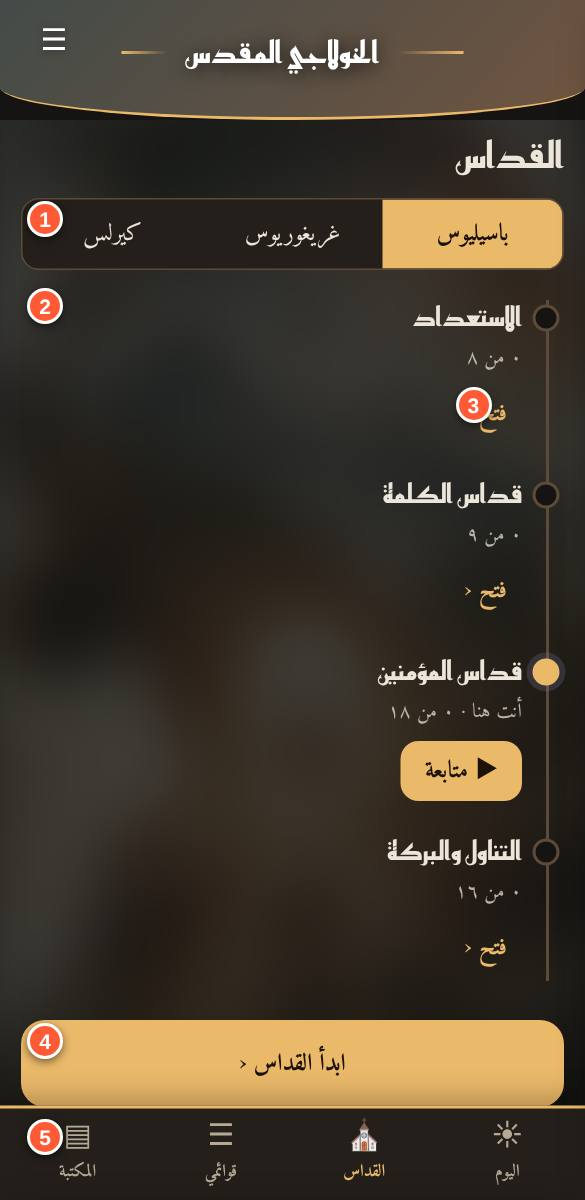
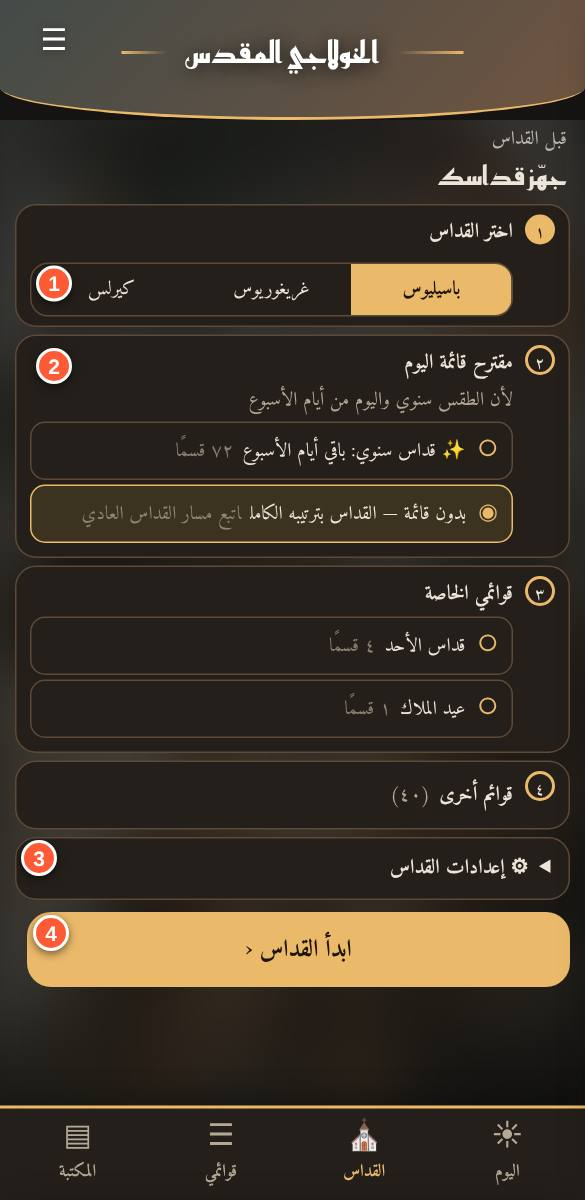
1.6.5: زر القداس يفتح جهّز قداسك مباشرة وحذف الصفحة السابقة
Claude-Session: https://claude.ai/code/session_01TxsQH8W41ZBNhnMhe9bVaK

diff --git a/tools/make-guide.js b/tools/make-guide.js
@@ -16,10 +16,9 @@ const SPECS=[
 {id:'today',title:'ورقة اليوم',hash:'#/',h:900,setup:async p=>{await open(p,'.sgrab')},summary:'الورقة التي تظهر بالسحب. فيها كل ما تحتاجه اليوم دون تفاصيل كثيرة.',
  marks:[['.tsheet .td','تاريخ اليوم','التاريخ والذكصولوجيات المقترحة لهذا التاريخ.'],['.tdc','تابع من حيث وقفت','آخر قسم كنت فيه وشريط التقدم. زر «متابعة» يفتحه مباشرة.'],['.tdp','باكر · العشية · نصف الليل','يختار نفسه تلقائيا حسب الساعة. الأقسام تحته تناسب الوقت.'],['.tsheet .li .dxp','＋','يضيف القسم إلى قائمتك الحالية.'],['.tdstart','ابدأ القداس','يفتح صفحة «قبل القداس» لتجهيز القداس.'],['.bnav','الشريط السفلي','التنقل بين الصفحات الأربع: اليوم، القداس، قوائمي، المكتبة.']],
  nav:'اسحب الورقة لتحت أو اضغط على المقبض في أعلاها لتعود للصورة.'},
-{id:'lit',title:'القداس',hash:'#/lit',summary:'الصفحة التي تتابع منها القداس مرحلة مرحلة.',
- marks:[['.seg','اختيار القداس','باسيليوس أو غريغوريوس أو كيرلس. اختيارك يتحفظ.'],['.tl','المراحل الأربع','الاستعداد، قداس الكلمة، قداس المؤمنين، القسمة والتناول. الدائرة الممتلئة = مرحلة أنهيتها.'],['.tl .stgo, .tl .tdgo','فتح / متابعة','يفتح أول جزء لم تقرأه في المرحلة.'],['.tdstart','ابدأ القداس','يفتح «قبل القداس».'],['.tdalt','كل أقسام القداس','قائمة كل أجزاء القداس المختار بترتيب الكتاب.']]},
-{id:'pre',title:'قبل القداس',hash:'#/pre',summary:'أربع خطوات قصيرة تجهّز بها قبل أن تبدأ.',
- marks:[['.chk@0','١. القداس','اختر الذي ستصليه.'],['.chk@1','٢. قائمتك','القائمة الحالية وعدد أقسامها. «فتح قوائمي» لتعديلها.'],['.chk@2','٣. اقتراحات اليوم','ذكصولوجيات تناسب تاريخ اليوم. ＋ لإضافتها.'],['.chk@3','٤. حجم الخط','اضبطه الآن ليبقى ثابتا طوال القداس.'],['[data-dmgo="lit"]','ابدأ القداس','يبدأ وضع الشماس من آخر مكان أو أول القداس.'],['[data-dmgo="list"]','ابدأ قائمتي','يبدأ القراءة من أول قسم في قائمتك ويتنقّل بترتيبها.']]},
+{id:'lit',title:'القداس (جهّز قداسك)',hash:'#/lit',summary:'زر «القداس» بالأسفل يفتح هذه الصفحة: اختر القداس والقائمة ثم ابدأ.',
+ marks:[['.prc .seg','١. اختر القداس','باسيليوس أو غريغوريوس أو كيرلس. اختيارك يتحفظ.'],['.prlst','٢. مقترح قائمة اليوم','أنسب قائمة لطقس اليوم؛ أو «بدون قائمة» لتتبع مسار القداس العادي.'],['.prset','⚙ إعدادات القداس','اظهار/إخفاء العربي والمعرَّب والقبطي والهمسات والتأملات، وحجم الخط.'],['.tdstart','ابدأ القداس','يبدأ القداس بما اخترته.']],
+ nav:'من أسفل الشاشة: «القداس».'},
 {id:'reader',title:'القراءة',hash:'#/s/bas-hulul',summary:'شاشة قراءة أي قسم: نص بثلاثة أعمدة (قبطي، معرَّب، عربي) مع إرشادات الطقس.',
  marks:[['#bsub','اسم القسم ▾','اضغط عليه لتنتقل بسرعة لأي قسم آخر.'],['#opts label:nth-of-type(1)','ع · م · ق','تظهر أو تخفي الأعمدة: العربي، المعرَّب، القبطي.'],['#btnSearch','بحث','يبحث في كل نصوص البرنامج.'],['.sts','رحلة المسيح','المحطة التي تقابل هذا الجزء من القداس (تفصيلها في صفحتها).'],['.unh [data-more]','⋯ خيارات القراءة','يفتح قائمة فيها 🕯 وضع الكنيسة (نص كبير داكن) و🕊 همسات الصلاة (مخفية / مطوية / مفتوحة / في الدرج).'],['.unh [data-uidx]','فهرس','قائمة قطع هذا القسم للانتقال لأي قطعة.'],['.unh .syb','⇄ القداس الآخر','زرّ لكل قداس آخر: ضغطة واحدة تفتح مقابل هذا القسم هناك من أوله، وتتحرك أنت داخله للمكان الذي تريده. المطوّلة تفتح كل المقابلات، والباهت يعني لا مقابل.'],['.unb','شريط التقدم','نسبة ما قرأته في هذا القسم.'],['.unp .rub, .rub','إرشاد (أحمر)','حركات الكاهن والشعب وما يقال.'],['#dsheet','الدرج السفلي','أيقونات فقط: 💭 تأمل، 📝 شروحات، 🕯 إرشادات، 📎 هوامش، 🧭 المحطة، 📖 دليل. يُفتح بالسحب لأعلى فقط (الضغط عليه وهو مغلق لا يفتحه)، ولأسفل ليُغلق؛ وبعد فتحه اضغط أيقونة لتبديل التبويب.'],['#dxfab','＋ / ✓','يضيف القسم لأي قائمة من قوائمك، ويفتح قائمة خياراتها.'],['#qfs','أ+ / أ−','تكبير وتصغير الخط فورا.']],
  nav:'للانتقال بين الأجزاء: «التالي» في آخر الصفحة، أو اسحب الشاشة، أو افتح الفهرس. هذه الأزرار تظهر هنا فقط.'},

diff --git a/guide-pages.js b/guide-pages.js
@@ -65,66 +65,32 @@ window.KG_PAGES=[
  },
  {
   "id": "lit",
-  "title": "القداس",
+  "title": "القداس (جهّز قداسك)",
   "img": "guide/lit.jpg",
-  "summary": "الصفحة التي تتابع منها القداس مرحلة مرحلة.",
+  "summary": "زر «القداس» بالأسفل يفتح هذه الصفحة: اختر القداس والقائمة ثم ابدأ.",
   "items": [
    [
     1,
-    "اختيار القداس",
+    "١. اختر القداس",
     "باسيليوس أو غريغوريوس أو كيرلس. اختيارك يتحفظ."
    ],
    [
     2,
-    "المراحل الأربع",
-    "الاستعداد، قداس الكلمة، قداس المؤمنين، القسمة والتناول. الدائرة الممتلئة = مرحلة أنهيتها."
+    "٢. مقترح قائمة اليوم",
+    "أنسب قائمة لطقس اليوم؛ أو «بدون قائمة» لتتبع مسار القداس العادي."
    ],
    [
     3,
-    "فتح / متابعة",
-    "يفتح أول جزء لم تقرأه في المرحلة."
+    "⚙ إعدادات القداس",
+    "اظهار/إخفاء العربي والمعرَّب والقبطي والهمسات والتأملات، وحجم الخط."
    ],
    [
     4,
     "ابدأ القداس",
-    "يفتح «قبل القداس»."
-   ],
-   [
-    5,
-    "كل أقسام القداس",
-    "قائمة كل أجزاء القداس المختار بترتيب الكتاب."
+    "يبدأ القداس بما اخترته."
    ]
   ],
-  "nav": ""
- },
- {
-  "id": "pre",
-  "title": "قبل القداس",
-  "img": "guide/pre.jpg",
-  "summary": "أربع خطوات قصيرة تجهّز بها قبل أن تبدأ.",
-  "items": [
-   [
-    1,
-    "١. القداس",
-    "اختر الذي ستصليه."
-   ],
-   [
-    2,
-    "٢. قائمتك",
-    "القائمة الحالية وعدد أقسامها. «فتح قوائمي» لتعديلها."
-   ],
-   [
-    3,
-    "٣. اقتراحات اليوم",
-    "ذكصولوجيات تناسب تاريخ اليوم. ＋ لإضافتها."
-   ],
-   [
-    4,
-    "٤. حجم الخط",
-    "اضبطه الآن ليبقى ثابتا طوال القداس."
-   ]
-  ],
-  "nav": ""
+  "nav": "من أسفل الشاشة: «القداس»."
  },
  {
   "id": "reader",
@@ -310,23 +276,7 @@ window.KG_PAGES=[
   "title": "التقويم القبطي",
   "img": "guide/calendar.jpg",
   "summary": "الأعياد والأصوام بالتاريخين، وربط كل يوم بطقسه وألحانه وقوائمه.",
-  "items": [
-   [
-    1,
-    "التبويبات",
-    "القادم (أقرب المناسبات) · الشهر · مواسم السنة."
-   ],
-   [
-    2,
-    "أقرب مناسبة",
-    "اسمها وعدّاد الأيام حتى تصل."
-   ],
-   [
-    3,
-    "المناسبات",
-    "اضغط لفتح الشهر، و🔔 للتنبيه قبلها بيومين."
-   ]
-  ],
+  "items": [],
   "nav": ""
  },
  {

diff --git a/guide-news.js b/guide-news.js
@@ -1,7 +1,8 @@
 /* سجل الميزات الجديدة (الأحدث أولا). كل ميزة جديدة تُضاف هنا كمدخل جديد في أعلى القائمة،
    ثم تُحدَّث مواصفة الصفحة المتأثرة في tools/make-guide.js وتُعاد اللقطات (node tools/make-guide.js). */
-window.KG_VERSION="1.6.4";
+window.KG_VERSION="1.6.5";
 window.KG_NEWS=[
+{v:"1.6.5", t:"القداس يفتح على «جهّز قداسك»", x:"زر «القداس» بالأسفل يفتح مباشرة صفحة اختيار القداس والقائمة، وحُذفت الصفحة التي كانت قبلها."},
 {v:"1.6.4", t:"تصميم أكثر إحكاما", x:"شاشة «ابدأ القداس» والقوائم والتقويم بمسافات أصغر وصفوف مضغوطة تُظهر المحتوى أكثر في الشاشة."},
 {v:"1.6.3",t:"شاشة «ابدأ القداس» الجديدة",x:"عند «ابدأ القداس» تظهر الآن أربع خطوات: ١) اختيار القداس (باسيلي/غريغوري/كيرلسي)، ٢) مقترح قائمة اليوم حسب الطقس، ٣) قوائمك الخاصة، ٤) قوائم أخرى (الجاهزة والمناسبات). اختر قائمة أو «بدون قائمة» ثم ابدأ. وفيها «إعدادات القداس» لتغيير الأعمدة والإرشادات والتأملات والهمسات وطريقة القراءة وحجم الخط."},
 {v:"1.6.2",t:"صفحة التقويم القبطي",x:"صفحة جديدة «📅 التقويم القبطي» على نمط «رفيق روحي»: تبويب «القادم» (أقرب الأعياد والأصوام بعدّاد الأيام وتنبيه 🔔 قبلها بيومين)، و«الشهر» (شبكة بالتاريخين مع نقاط للأعياد والأصوام)، و«مواسم السنة» (أي سنة 1900–2099 مع جدول الأعياد). وعند الضغط على أي يوم يظهر طقسه وألحانه وأنسب قائمة له وذكصولوجياته ومدائح توزيعه. تُفتح من المكتبة والرئيسية وكارت طقس اليوم."},

diff --git a/sw.js b/sw.js
@@ -1,4 +1,4 @@
-const CACHE_NAME='khulagi-v1.6.4';
+const CACHE_NAME='khulagi-v1.6.5';
 const FILES=['./','index.html','icon-192.png','icon-512.png','guide-news.js','calendar.js','content-tawzi.txt','guide-pages.js','guide/doxologies.jpg','guide/occasions.jpg','guide/library.jpg','guide/lists.jpg','guide/lit.jpg','guide/notes.jpg','guide/post.jpg','guide/pre.jpg','guide/reader.jpg','guide/settings.jpg','guide/sidx.jpg','guide/splash.jpg','guide/story.jpg','guide/today.jpg','reemkufi-arabic-700-normal.woff2','dawn.jpg','data.js','study.js','swipe.js','live.js','story.js','study-data.js','data-bible.js','content-raf.txt','content-bas.txt','content-greg.txt','content-cyr.txt','content-qisam.txt','content-misc.txt','content-bless.txt','content-app.txt','content-taqs.txt','content-dox.txt','manifest.webmanifest','amiri-arabic-400-normal.woff2','amiri-arabic-700-normal.woff2','amiri-latin-400-normal.woff2','tajawal-arabic-400.woff2','tajawal-latin-400.woff2','tajawal-arabic-700.woff2','tajawal-latin-700.woff2','cairo-arabic-400-normal.woff2','cairo-arabic-700-normal.woff2','el-messiri-arabic-400-normal.woff2','el-messiri-arabic-700-normal.woff2','lateef-arabic-400-normal.woff2','lateef-arabic-700-normal.woff2','markazi-text-arabic-400-normal.woff2','markazi-text-arabic-700-normal.woff2','noto-naskh-arabic-arabic-400-normal.woff2','noto-naskh-arabic-arabic-700-normal.woff2','reem-kufi-arabic-400-normal.woff2','reem-kufi-arabic-700-normal.woff2','scheherazade-new-arabic-400-normal.woff2','scheherazade-new-arabic-700-normal.woff2','amiri-latin-700-normal.woff2','noto-sans-coptic-coptic-400-normal.woff2','noto-sans-coptic-latin-400-normal.woff2'];
 self.addEventListener('install',e=>{e.waitUntil(caches.open(CACHE_NAME).then(c=>Promise.all(FILES.map(f=>c.add(new Request(f,{cache:'reload'})).catch(()=>{})))).then(()=>self.skipWaiting()))});
 self.addEventListener('activate',e=>{e.waitUntil(caches.keys().then(k=>Promise.all(k.filter(x=>x!==CACHE_NAME).map(x=>caches.delete(x)))).then(()=>self.clients.claim()))});

diff --git a/index.html b/index.html
@@ -1575,7 +1575,7 @@ function route(){
   else if(h==="dxlist")dxView();
   else if(h==="cal")calView();
   else if(h==="guide")guideView();
-  else if(h==="lit")litTab();
+  else if(h==="lit")preView();
   else if(h==="lib")libView();
   else if(h==="pre")preView();
   else if(h==="post")postView();
